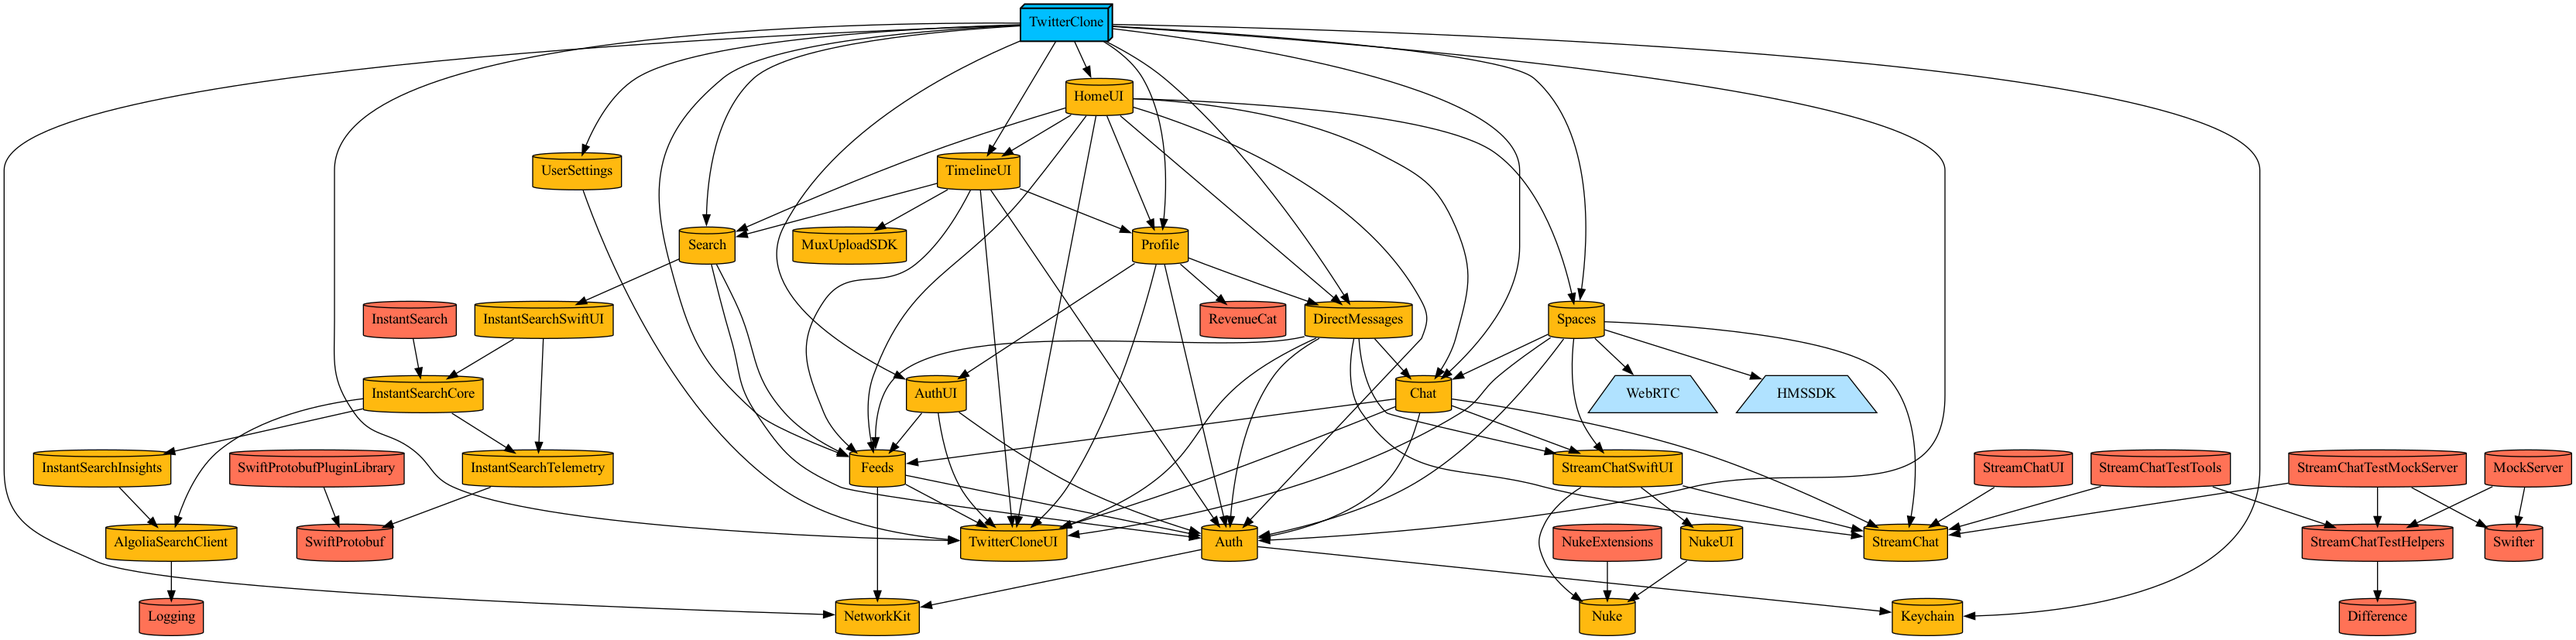
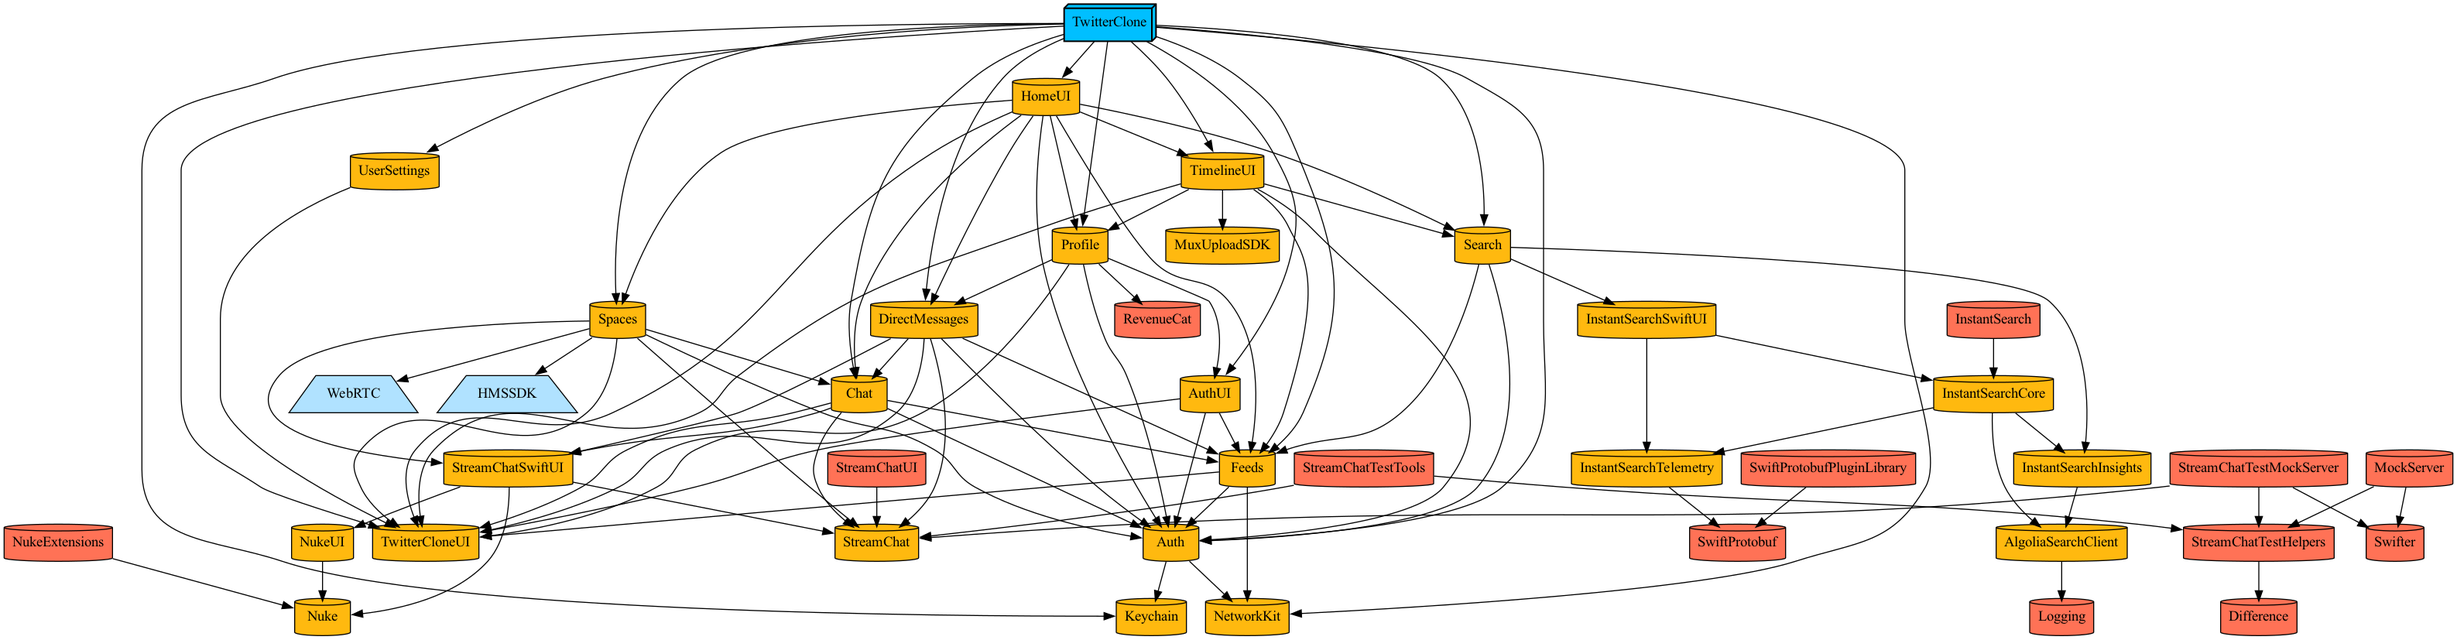
Add Algolia Insights to our searches

diff --git a/TwitterClone/Targets/Search/Sources/SearchView.swift b/TwitterClone/Targets/Search/Sources/SearchView.swift
@@ -8,11 +8,13 @@ import Feeds
 import Combine
 import Auth
 import InstantSearchCore
+import InstantSearchInsights
 import InstantSearchSwiftUI
 
 @MainActor
 class AlgoliaController: ObservableObject {
     let searcher: HitsSearcher
+    let insights: Insights
     let searchBoxInteractor: SearchBoxInteractor
     let searchBoxController: SearchBoxObservableController
 
@@ -21,6 +23,8 @@ class AlgoliaController: ObservableObject {
   
     var feedsClient: FeedsClient
     var auth: TwitterCloneAuth
+    
+    private let indexName: IndexName = "TwitterCloneUsers"
     
     func submit() {
         searchBoxController.submit()
@@ -37,30 +41,36 @@ class AlgoliaController: ObservableObject {
     init(feedsClient: FeedsClient, auth: TwitterCloneAuth) {
         self.feedsClient = feedsClient
         self.auth = auth
-    self.searcher = HitsSearcher(appID: "BGP9QX4VDE",
-                                 apiKey: "d50d7e16b4341c04814ef66977faa4c2",
-                                 indexName: "TwitterCloneUsers")
-    self.searchBoxInteractor = .init()
-    self.searchBoxController = .init()
-    self.hitsInteractor = .init()
-    self.hitsController = .init()
-    setupConnections()
-  }
+        let appID: ApplicationID = "BGP9QX4VDE"
+        let apiKey: APIKey = "d50d7e16b4341c04814ef66977faa4c2"
+        let userToken = UserToken(rawValue: feedsClient.authUser.userId)
+        self.searcher = HitsSearcher(appID: appID,
+                                 apiKey: apiKey,
+                                 indexName: indexName)
+        self.insights = Insights.register(appId: appID, apiKey: apiKey, userToken: userToken)
+        self.searchBoxInteractor = .init()
+        self.searchBoxController = .init()
+        self.hitsInteractor = .init()
+        self.hitsController = .init()
+        setupConnections()
+    }
   
-  func setupConnections() {
-    searchBoxInteractor.connectSearcher(searcher)
-    searchBoxInteractor.connectController(searchBoxController)
-    hitsInteractor.connectSearcher(searcher)
-    hitsInteractor.connectController(hitsController)
-  }
+    func setupConnections() {
+      searchBoxInteractor.connectSearcher(searcher)
+      searchBoxInteractor.connectController(searchBoxController)
+      hitsInteractor.connectSearcher(searcher)
+      hitsInteractor.connectController(hitsController)
+    }
     
     func isFollowing(user: FeedUser) -> Bool {
         return followedUserFeedIds.contains("user:" + user.userId)
     }
+    
     func unfollow(user: FeedUser) {
         Task {
             do {
                 try await feedsClient.unfollow(target: user.userId, keepHistory: true)
+                insights.clicked(eventName: EventName(rawValue: "unfollow"), indexName: indexName, objectID: ObjectID(rawValue: user.userId), userToken: UserToken(rawValue: feedsClient.authUser.userId))
                 followedUserFeedIds.remove("user:" + user.userId)
             } catch {
                 print(error)
@@ -72,6 +82,7 @@ class AlgoliaController: ObservableObject {
         Task {
             do {
                 try await feedsClient.follow(target: user.userId, activityCopyLimit: 100)
+                insights.clicked(eventName: EventName(rawValue: "follow"), indexName: indexName, objectID: ObjectID(rawValue: user.userId), userToken: UserToken(rawValue: feedsClient.authUser.userId))
                 followedUserFeedIds.insert("user:" + user.userId)
             } catch {
                 print(error)

diff --git a/TwitterClone/Project.swift b/TwitterClone/Project.swift
@@ -60,7 +60,8 @@ let searchTarget =
                                  dependencies: [
                                     .target(name: feedsName),
                                     .target(name: authName),
-                                    .external(name: "InstantSearchSwiftUI")
+                                    .external(name: "InstantSearchSwiftUI"),
+                                    .external(name: "InstantSearchInsights"),
                                  ])
 let settingsTarget =
     Project.makeFrameworkTargets(name: settingsName,
